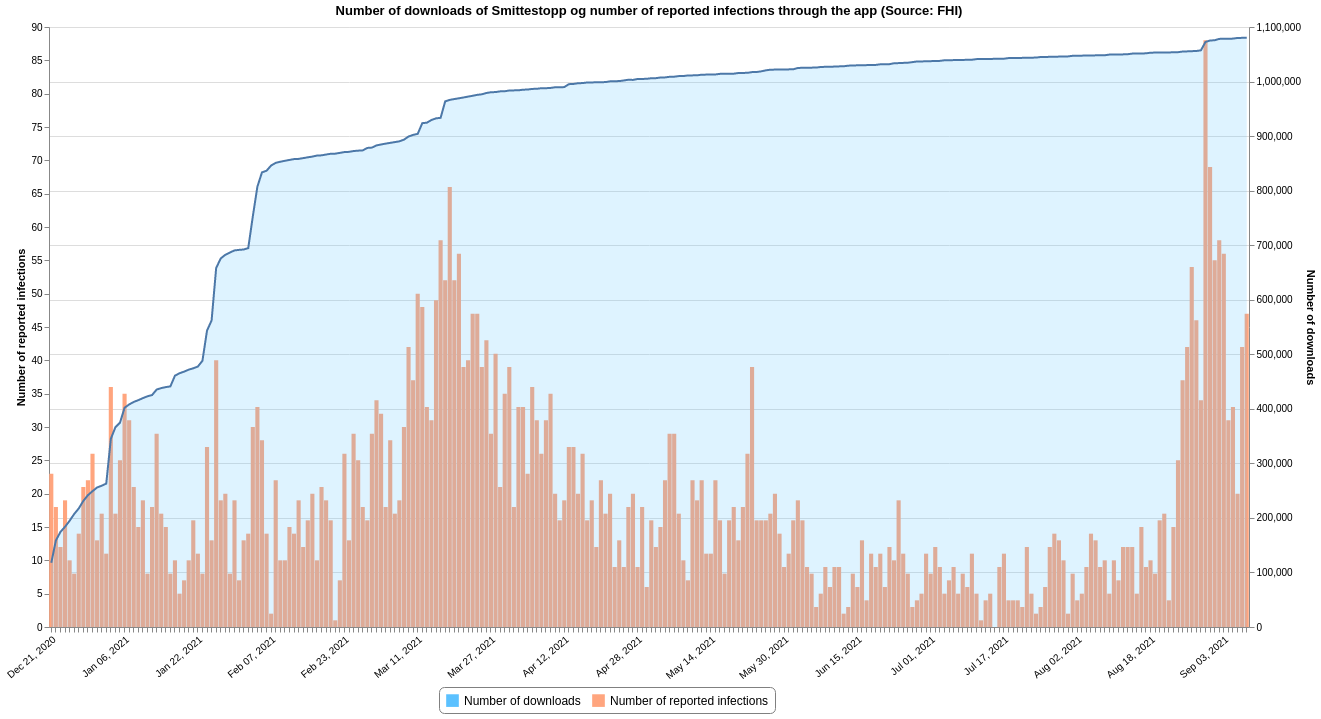
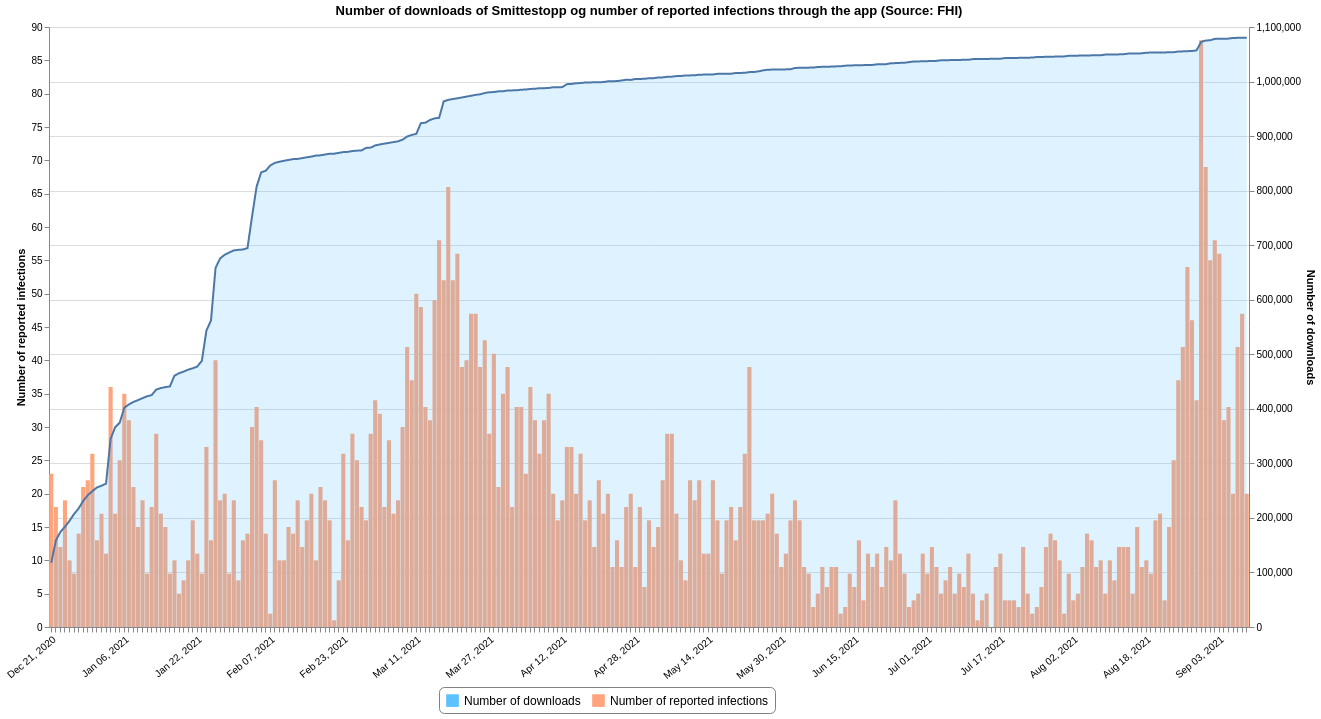
Updated 2021-09-10 09:51

diff --git a/README.md b/README.md
@@ -17,7 +17,7 @@ This repository contains datasets of daily time-series data related to COVID-19 
 |[Tested Lab](#tested_labcsv)|FHI|2021-09-09 13:20:46+02:00|[<center>csv</center>](https://raw.githubusercontent.com/frefrik/covid19norge-data/main/data/tested_lab.csv)|[<center>preview</center>](data/tested_lab.csv)|
 |[Transport](#transportcsv)|FHI|2021-09-09 12:20:43+02:00|[<center>csv</center>](https://raw.githubusercontent.com/frefrik/covid19norge-data/main/data/transport.csv)|[<center>preview</center>](data/transport.csv)|
 |[Vaccine Doses](#vaccine_dosescsv)|FHI|2021-09-09 13:20:51+02:00|[<center>csv</center>](https://raw.githubusercontent.com/frefrik/covid19norge-data/main/data/vaccine_doses.csv)|[<center>preview</center>](data/vaccine_doses.csv)|
-|[Smittestopp](#smittestoppcsv)|FHI|2021-09-09 09:30:47+02:00|[<center>csv</center>](https://raw.githubusercontent.com/frefrik/covid19norge-data/main/data/smittestopp.csv)|[<center>preview</center>](data/smittestopp.csv)|
+|[Smittestopp](#smittestoppcsv)|FHI|2021-09-10 09:50:55+02:00|[<center>csv</center>](https://raw.githubusercontent.com/frefrik/covid19norge-data/main/data/smittestopp.csv)|[<center>preview</center>](data/smittestopp.csv)|
 <!-- table ends -->
 
 ## Datafiles
